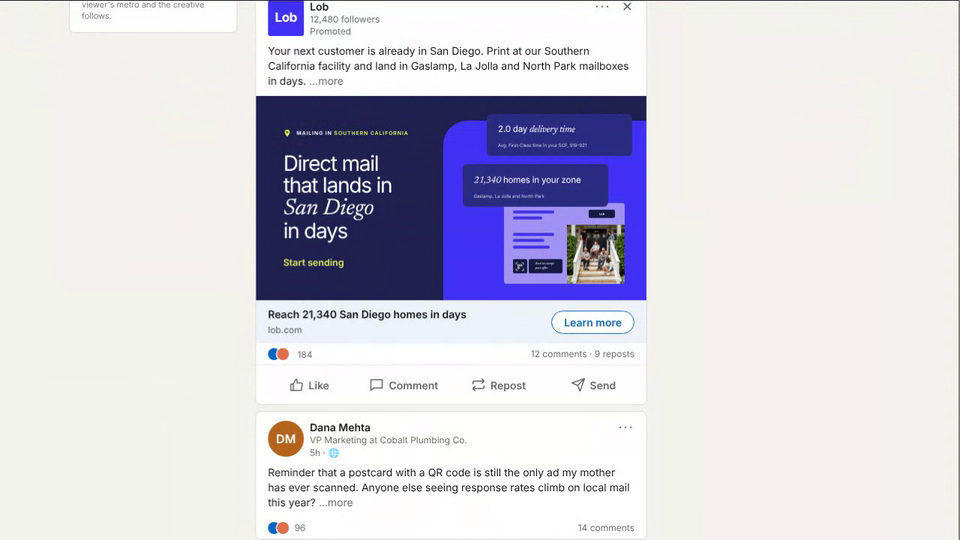
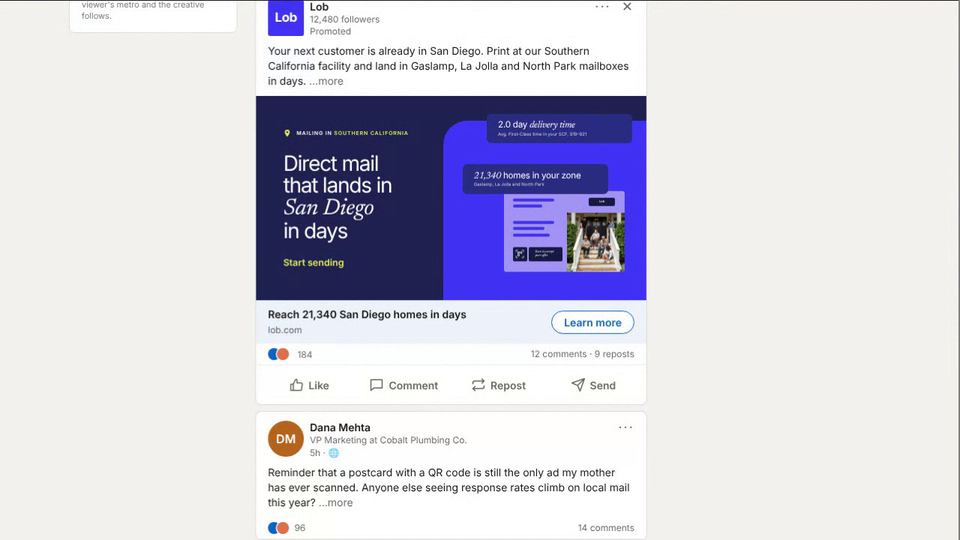
Paid Ad Pipeline: blurb subheading closer to title, postcard keeps slight overlap (#313)
Claude-Session: https://claude.ai/code/session_01AHeBe16MbJ3hGUT21NJCss

Changed region(s): [[0.4688, 0.2074, 0.6562, 0.5333]]

diff --git a/paid-ad-pipeline/index.html b/paid-ad-pipeline/index.html
@@ -77,9 +77,10 @@ nav.back span{color:#6e6e6e}nav.back b{font-weight:500;color:#fff;overflow:hidde
 .cr .stage>*{pointer-events:none}
 .cr .bl{position:absolute;width:60%;background:var(--card);border-radius:6px;padding:2.6cqw 4.6cqw;color:#fff;z-index:3}
 .cr .bl strong{display:block;font:400 3.6cqw/1.1 var(--sans);letter-spacing:-.02em}.cr .bl strong i{font:italic 400 3.8cqw var(--serif)}
-.cr .bl p{white-space:nowrap;font:400 1.85cqw/1.4 var(--sans);color:rgba(255,255,255,.75);margin-top:.3cqw}
+.ad .cr .bl .sw{display:block}
+.cr .bl p{white-space:nowrap;font:400 1.85cqw/1.4 var(--sans);color:rgba(255,255,255,.75);margin-top:.5cqw}
 .cr .box{position:absolute;left:0;right:0;top:7%;bottom:0;background:var(--purple);border-radius:32px;overflow:hidden}
-.cr .mail{position:absolute;z-index:2;left:25%;top:41%;width:50%;aspect-ratio:1.5;border-radius:3px;overflow:hidden;background:#a393f5}
+.cr .mail{position:absolute;z-index:2;left:25%;top:36%;width:50%;aspect-ratio:1.5;border-radius:3px;overflow:hidden;background:#a393f5}
 .cr .mail .el{position:absolute}
 .cr .mail .bar2{background:var(--purple);border-radius:99px}
 .cr .mail .tag{background:var(--deep);color:#fff;border-radius:2px;font:600 1.2cqw/1 var(--sans);display:flex;align-items:center;justify-content:center}
